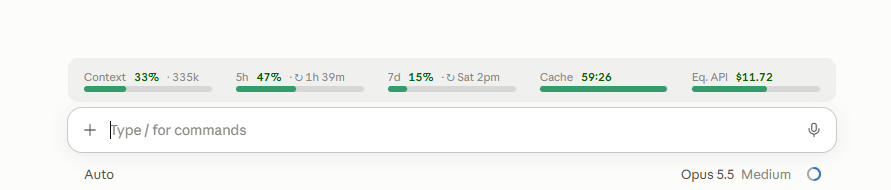
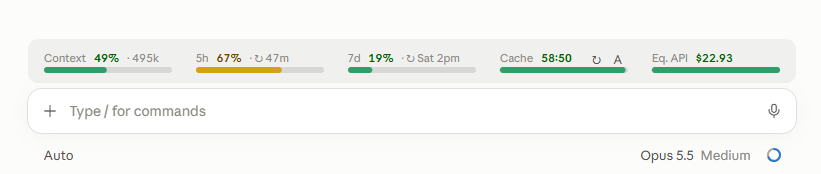
docs: Update Readme

diff --git a/README.md b/README.md
@@ -32,7 +32,7 @@ claude plugin update desktop-statusline@odinsentropy
 claude plugin uninstall desktop-statusline@odinsentropy
 ```
 
-Mods need Claude Code 2.1.287 or newer. A mod runs with your permissions: this one reads the session's usage figures and draws them, and makes no network calls and runs no commands.
+Mods need Claude Code 2.1.287 or newer. A mod runs with your permissions: this one reads the session's usage figures and draws them, and runs no commands. It sends a model request only when you press the cache's ↻ button.
 
 ## Plugins
 Currently available plugins.
@@ -50,11 +50,28 @@ A usage bar above the prompt. It shows at a glance:
 | **Context** | how full the context window is, and the tokens in it | green → yellow → orange → red as it fills |
 | **5h** | the 5-hour usage limit, and the time until it resets | same colours |
 | **7d** | the 7-day usage limit, and the day and hour it resets | same colours |
-| **Cache** | how long the prompt cache stays warm, counting down live | runs down until the cache goes cold |
-| **Eq. API** | what this session would cost at API prices | fills up to $20, light blue from $40, gold from $100 |
+| **Cache** | how long the prompt cache stays warm, counting down live; **↻** keeps it warm now, **A** keeps it warm automatically (**⏸** pauses that). Once cold, the label turns red and the timer shows what reloading would cost (`Cache ~$3.70`) | runs down until the cache goes cold |
+| **Eq. API** | what this session would cost at API prices | measured against your plan: fills up to 1x its monthly price, light blue from 2x, gold from 5x ($20, $40 and $100 on the default $20 plan) |
 
 Rest the pointer on the Context, 5h or 7d bar for the full numbers and reset time.
 
 Because it only draws on the desktop, a `statusLine` you set in `settings.json` for the terminal keeps working as before.
 
 The cache countdown assumes the one-hour cache of a Claude subscription, and five minutes when there are no usage limits (an API key). The cost is Claude Code's own estimate, the same figure `/cost` shows, not what a subscription charges.
+
+Pressing **↻** sends one tiny request over the session's own conversation. While the cache is warm that request reads it, which restarts its lifetime for about the cache-read price; once it is cold, the request writes it again. The reload estimate is the context's tokens at the model's API input price, times 2 for the one-hour cache (1.25 for five minutes).
+
+The prices behind the reload estimate are **hard-coded** from Anthropic's API pricing of October 2026 (input per million tokens: Fable 5.1 $10, Opus 5.5 $4, Opus 5 $5, Sonnet 5.5 $2, Haiku 5.5 $0.10). If they change, set `inputPrices` (below) until the mod is updated.
+
+
+**A** switches the automatic keep-warm on; while it runs the button reads **⏸**, which pauses it again. While it is on, the mod presses ↻ for you 10 minutes before the cache would lapse, whenever no reply is running, so a one-hour cache costs one tiny cache read about every 50 minutes. It stops after 6 hours without a message of yours, so a forgotten session doesn't keep spending. It belongs to its session: each session has its own cache and its own **A**, and it only runs while that session is open in the app.
+`/cache-cold` shows the cold state and its reload estimate for 15 seconds, without touching the real cache, so you can see what a cold cache would cost right now.
+
+### Settings
+
+| Setting | Default | What it does |
+|---|---|---|
+| `subscriptionUsd` | `20` | What your Claude plan costs a month. The Eq. API bar is full at 1x this, light blue from 2x and gold from 5x. |
+| `inputPrices` | empty | Price overrides for the reload estimate: part of a model id = input USD per million tokens, comma-separated, e.g. `opus-5-5=4, sonnet-5-5=2`. Empty uses the built-in prices. |
+
+You're asked for them when you install from a terminal. Change them later in `/config` in a terminal session, under the plugin's rows; the desktop app picks them up the next time a session starts.
